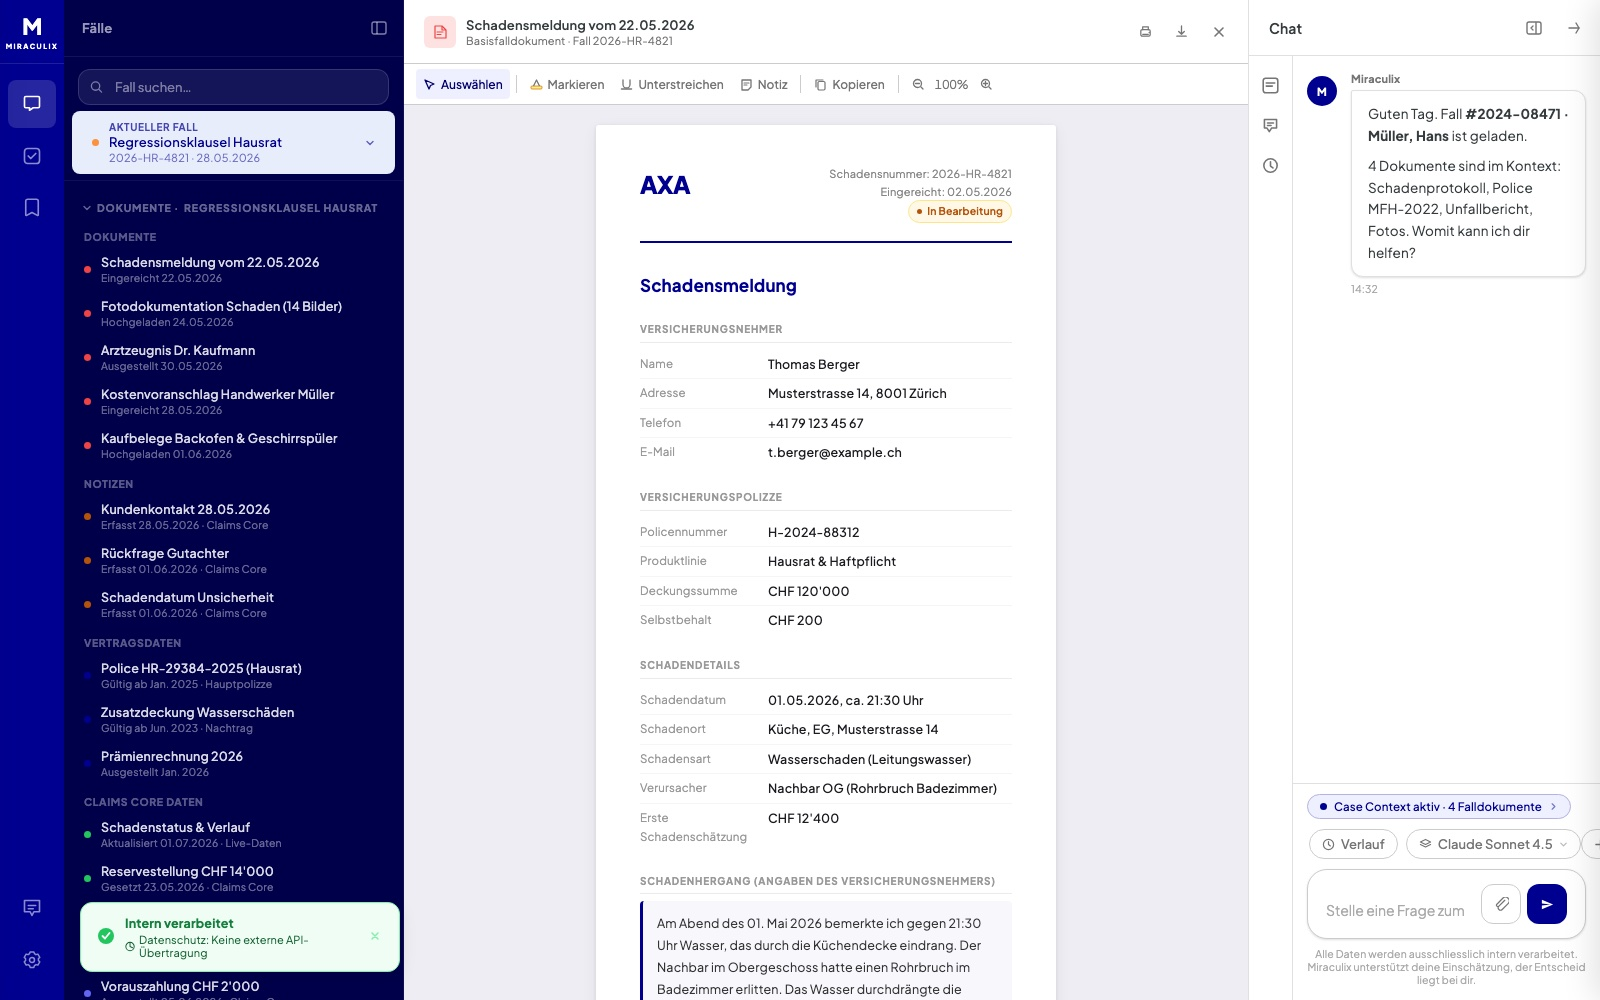
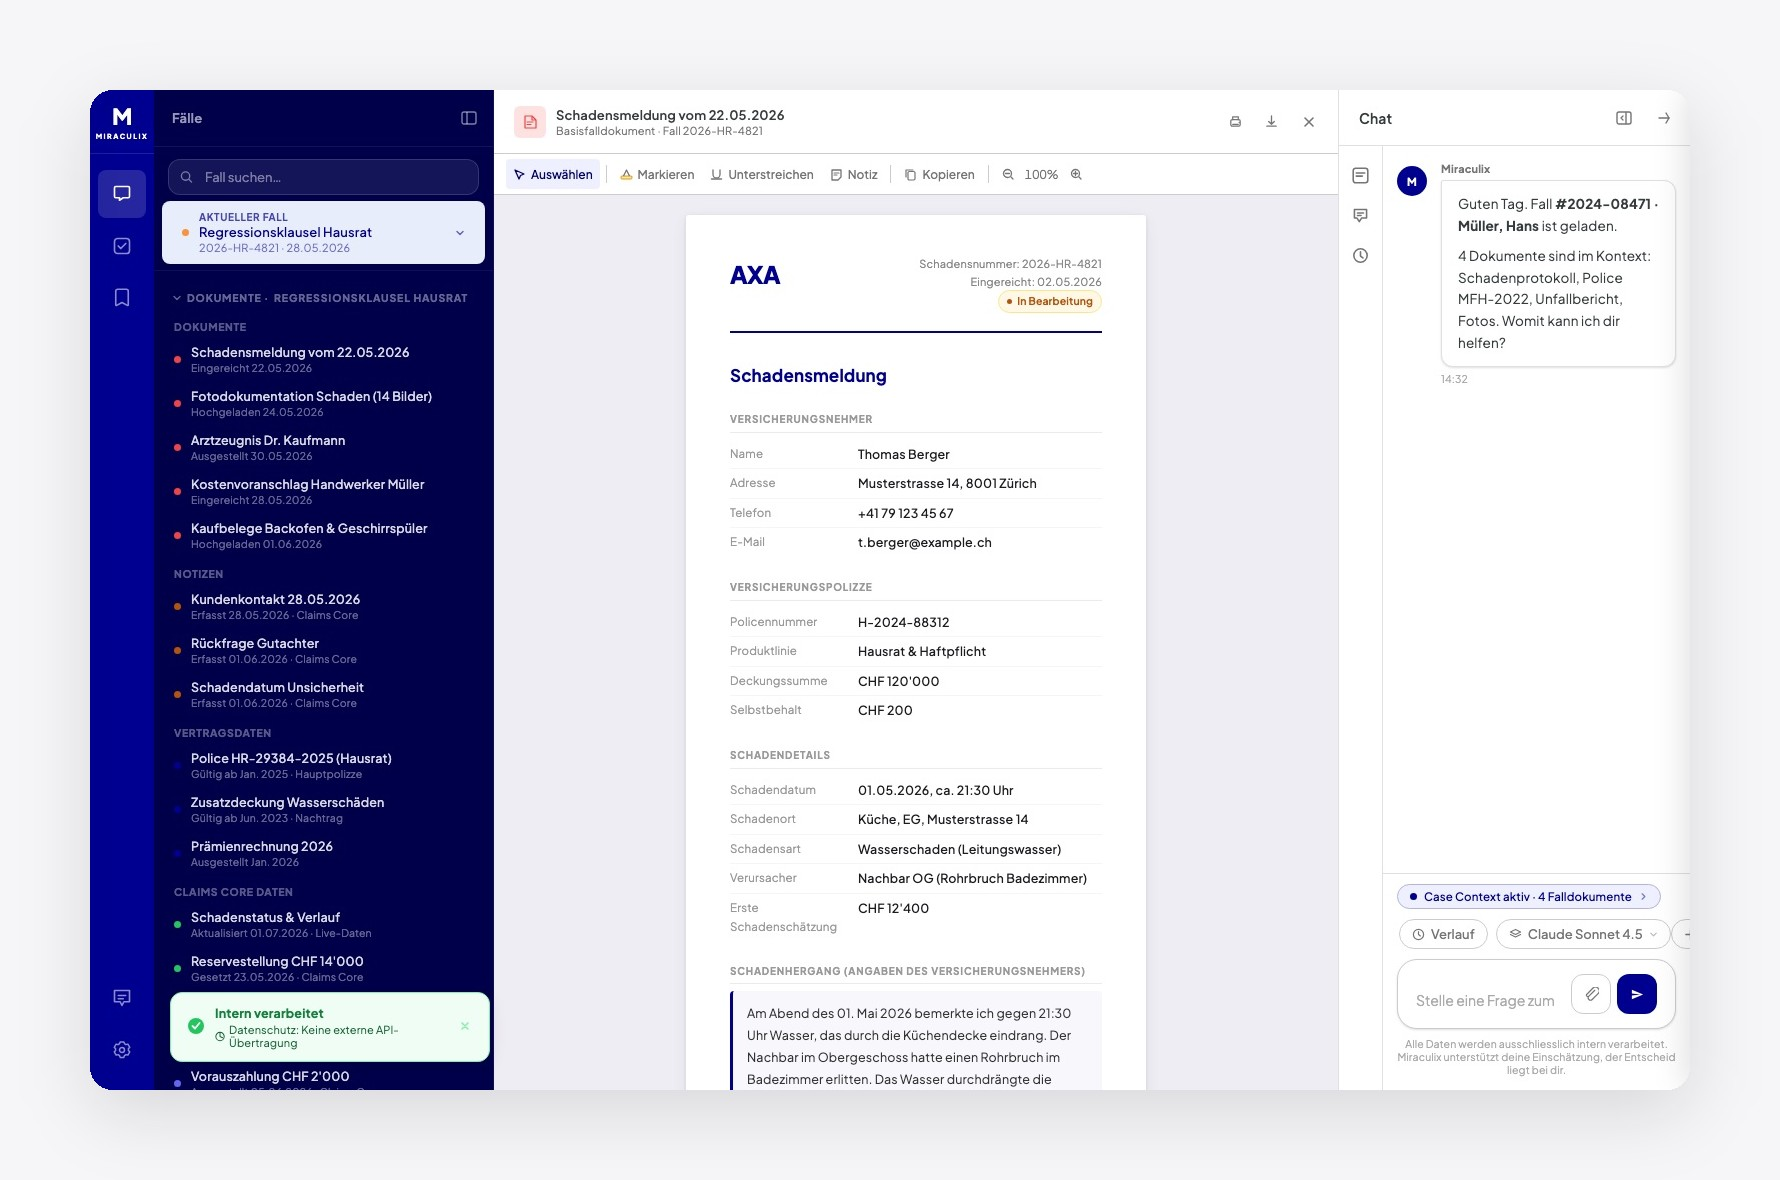
Simplify Miraculix title and add device mockup styling to project images

diff --git a/projekte.html b/projekte.html
@@ -180,7 +180,7 @@
           </div>
           <div class="proj-detail-text">
             <div class="proj-detail-eyebrow">Projekt 01</div>
-            <h2 class="proj-detail-title" data-en="AXA Switzerland &#8211; Miraculix App: The Future Workplace for Claims Handling">AXA Schweiz &#8211; Miraculix App: Arbeitsplatz der Zukunft für die Fallbearbeitung</h2>
+            <h2 class="proj-detail-title" data-en="Miraculix App as the Future Workplace for Claims Handling at AXA Switzerland">Miraculix App als Arbeitsplatz der Zukunft für die Fallbearbeitung bei AXA Schweiz</h2>
             <p class="proj-detail-lead" data-en="In the Data &amp; AI department, I develop an AI-powered future workplace for AXA&#8217;s claims handlers together with business units and the product team (Atlas).">In der Abteilung Data &amp; AI entwickle ich gemeinsam mit Fachbereichen und Produktteam (Atlas) einen AI-gestützten Arbeitsplatz der Zukunft für die Fallbearbeiter/innen der AXA.</p>
             <div class="proj-detail-body is-collapsible" id="projmiraculix-body">
               <p data-en="I work with the business to shape the vision and strategy for the Miraculix App, and together with business units and the product team (Atlas) design how AI is changing the daily work of claims handlers. I make sure the organisation evolves alongside it, so that users understand the new AI tools and can use them as effectively as possible. The goal is to support claims handling in a targeted way, analyse coverage check results more thoroughly, and make decisions more transparent, in both simple and complex cases. As a first step, we are aiming for up to 20% efficiency gains, with the potential for significantly more in later stages. As a steering model, I use my own WIN Framework: Impact, Integration and User Acceptance are developed with equal priority from the start, with user acceptance as a gate criterion for every scaling decision.">Ich erarbeite mit dem Business die Vision und Strategie für die Miraculix App und gestalte gemeinsam mit Fachbereichen und Produktteam (Atlas), wie AI die tägliche Arbeit von Fallbearbeiterinnen und Fallbearbeitern verändert. Dabei achte ich darauf, dass sich die Organisation mitentwickelt und die Anwenderinnen und Anwender die neuen AI-Tools verstehen und bestmöglich einsetzen können. Ziel ist es, die Fallbearbeitung gezielt zu unterstützen, Deckungsprüfungsergebnisse fundierter zu analysieren und Entscheidungen transparenter zu treffen, sowohl in einfachen wie auch in komplexen Fällen. In einem ersten Schritt streben wir bis zu 20% Effizienzsteigerung an, mit dem Potenzial für deutlich mehr in den folgenden Ausbaustufen. Als Steuerungsmodell nutze ich mein WIN Framework: Wirkung, Integration und Nutzerakzeptanz werden von Anfang an gleichrangig entwickelt, mit Nutzerakzeptanz als Gate-Kriterium für jede Skalierungsentscheidung.</p>
